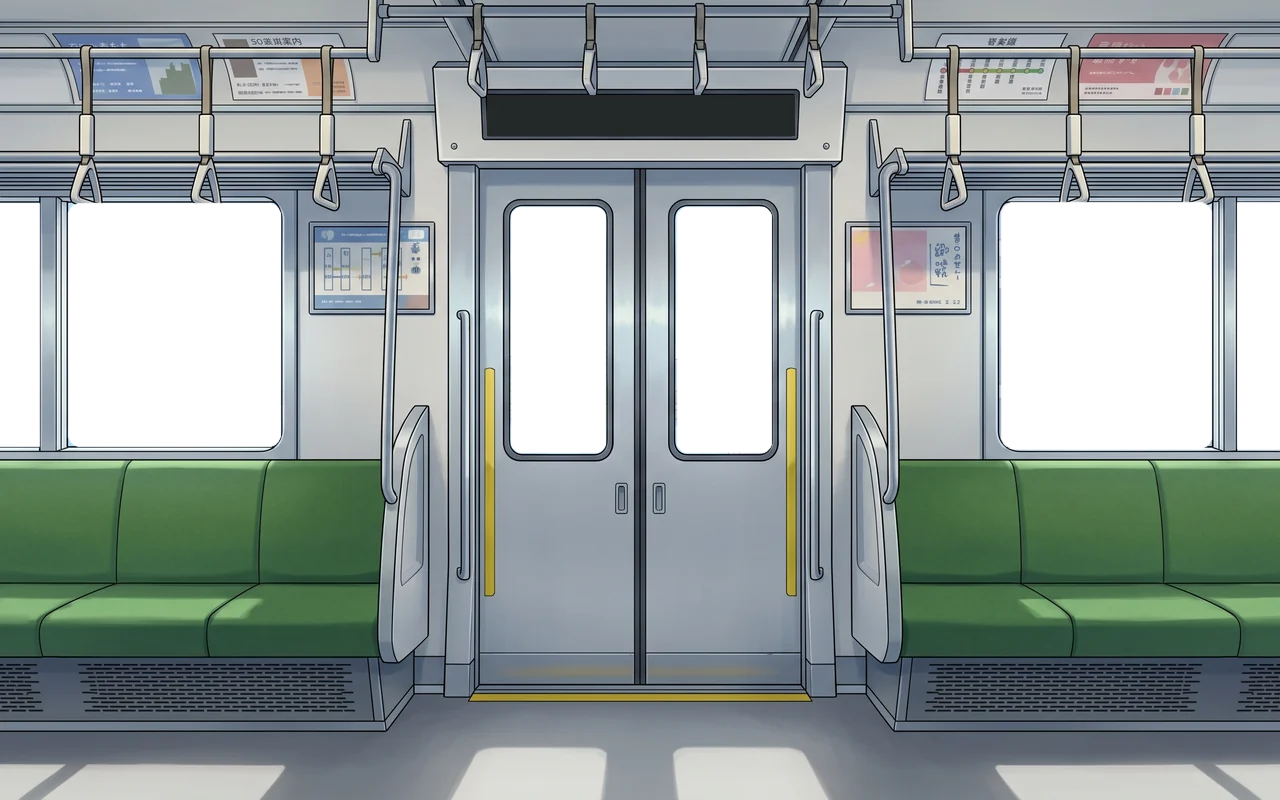
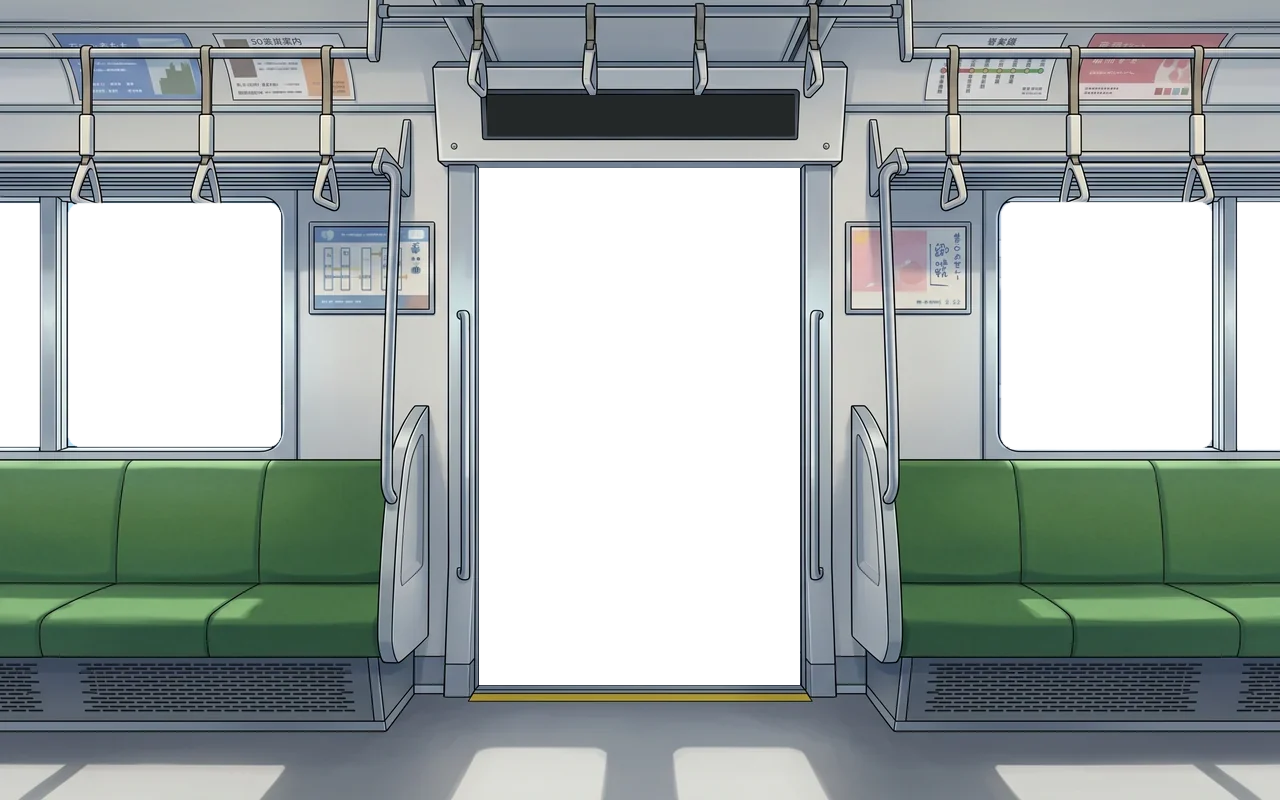
快速：車内の絵の中央ドアを開閉、通過駅への各駅停車案内を追加
- 車内の絵の中央のドアを扉の絵に切り出し、停車中に左右へ開く（開くとホームが見える）。快速では別枠のドアの画面を出さない
- ドア上の案内表示に「○○にお越しのお客様は 各駅停車にお乗り換えください（発車時刻）」を追加（始発駅は終点まで、途中駅は次の停車駅までの通過駅）
- 乗客の絵が目的ごとに足りないとき、同じ人を並べる前に近い目的の別の人を選ぶ

Claude-Session: https://claude.ai/code/session_01A2JS1sGX5LUKpYGRpXhqfW

Changed region(s): [[0.375, 0.1875, 0.625, 0.875]]

diff --git a/index.html b/index.html
@@ -314,6 +314,7 @@ canvas{display:block;touch-action:manipulation}
 .rside canvas#rideMon{display:block;width:100%;aspect-ratio:321/216}
 .rdoorrow{display:grid;grid-template-columns:130px 38px minmax(0,1fr);gap:8px;align-items:end}
 .rdoorrow canvas{display:block;width:100%;border-radius:6px}
+.rdoorrow.nodoor{grid-template-columns:38px minmax(0,1fr)}.rdoorrow.nodoor canvas{display:none}
 .rdoorrow img{width:38px;height:auto;display:block;opacity:.92;transition:filter .3s}
 .rdoorrow img.on{filter:drop-shadow(0 0 6px rgb(80 220 150 / .6))}
 .rcrowd{background:#1d2127;border:1px solid #2a2e35;border-radius:8px;padding:9px 11px}
@@ -1926,7 +1927,7 @@ const RIDE=(()=>{
     R.loading=fetch('data/ride.json').then(r=>{if(!r.ok)throw new Error('data/ride.json: HTTP '+r.status);return r.json();}).then(c=>{
       const srcs=new Set([c.platform.src,c.monitor.src,c.buttons.src]);
       Object.values(c.scenery).forEach(s=>{srcs.add(s.src);VARIANTS.forEach(v=>{if(s[v])srcs.add(s[v].src);});});
-      if(c.station){Object.values(c.station.backgrounds).forEach(b=>srcs.add(b.src));Object.values(c.station.trains).forEach(t=>{srcs.add(t.headSrc);srcs.add(t.midSrc);});}Object.values(c.interiors).forEach(s=>{srcs.add(s.src);(s.levels||[]).flat().forEach(x=>srcs.add(x));});if(c.people)['front','back'].forEach(k=>(c.people[k]||[]).forEach(x=>srcs.add(x.src)));if(c.sprites){c.sprites.heads.forEach(x=>srcs.add(x.src));c.sprites.stand.forEach(x=>srcs.add(x.src));}if(c.riders)['stand','seat'].forEach(k=>c.riders[k].forEach(x=>srcs.add(x.src)));Object.values(c.doors).forEach(d=>srcs.add(d.src));if(c.stationView)['floor','canopy','pillar'].forEach(k=>srcs.add(c.stationView[k]));Object.values(c.doors).forEach(s=>srcs.add(s.src));
+      if(c.station){Object.values(c.station.backgrounds).forEach(b=>srcs.add(b.src));Object.values(c.station.trains).forEach(t=>{srcs.add(t.headSrc);srcs.add(t.midSrc);});}Object.values(c.interiors).forEach(s=>{srcs.add(s.src);if(s.doorway)srcs.add(s.doorway.src);(s.levels||[]).flat().forEach(x=>srcs.add(x));});if(c.people)['front','back'].forEach(k=>(c.people[k]||[]).forEach(x=>srcs.add(x.src)));if(c.sprites){c.sprites.heads.forEach(x=>srcs.add(x.src));c.sprites.stand.forEach(x=>srcs.add(x.src));}if(c.riders)['stand','seat'].forEach(k=>c.riders[k].forEach(x=>srcs.add(x.src)));Object.values(c.doors).forEach(d=>srcs.add(d.src));if(c.stationView)['floor','canopy','pillar'].forEach(k=>srcs.add(c.stationView[k]));Object.values(c.doors).forEach(s=>srcs.add(s.src));
       return Promise.all([...srcs].map(s=>loadImg(s).then(im=>{R.img[s]=im;}))).then(()=>{R.cfg=c;buildStrips();});});
     R.loading.catch(()=>{R.loading=null;});
     return R.loading;}
@@ -2218,10 +2219,19 @@ const RIDE=(()=>{
   function levelSrc(n){const LV=R.it.levels,L=LV[Math.min(n,LV.length-1)];return Array.isArray(L)?L[(R.tr.num||0)%L.length]:L;}
   function drawLevels(c,dt,k,dk,blur,W,H,bob){const it=R.it;
     for(const side of ['left','right'])(it.windows[side]||[]).forEach(([x,y,w,h],wi)=>{c.save();c.beginPath();c.rect(x,y,w,h);c.clip();windowContent(c,R.tr,k,x,y,w,h,side,wi,dk,blur);c.restore();});
+    if(it.doorway)drawDoorway(c,k,dk,blur);
     if(it.door){const [x,y,w,h]=it.door,ref=R.img[levelSrc(0)];c.save();c.beginPath();c.rect(x,y,w,h);c.clip();c.drawImage(ref,x-w*0.6,y-h*0.35,w*2.2,h*1.6);c.fillStyle='rgba(30,24,18,.35)';c.fillRect(x,y,w,h);c.restore();}   // 貫通扉の窓の向こう＝となりの車両
     const tgt=level(k.load/R.tr.cap);if(R.lvShow==null)R.lvShow=tgt;R.lvShow+=(tgt-R.lvShow)*Math.min(1,dt*2.5);if(Math.abs(tgt-R.lvShow)<0.003)R.lvShow=tgt;
     const a=Math.max(1,Math.min(5,Math.floor(R.lvShow))),f=R.lvShow-a;
     const s0=levelSrc(a-1),s1=levelSrc(a);c.drawImage(R.img[s0],0,-1,W,H+2);if(f>0.01&&a<5&&s1!==s0){c.globalAlpha=f;c.drawImage(R.img[s1],0,-1,W,H+2);c.globalAlpha=1;}}
+  // 車内の絵の中のドア：開口部（車内の絵では透明）の向こうに外を描き、その上に扉を描く。扉は開くと左右の壁の中へ引き込まれる（このあと重ねる車内の絵に隠れる）
+  function drawDoorway(c,k,dk,blur){const D=R.it.doorway,[x0,y0,x1,y1]=D.rect,mid=D.seam,o=k.door,im=R.img[D.src];
+    c.save();c.beginPath();c.rect(x0,y0,x1-x0,y1-y0);c.clip();
+    R.ov={eye:D.eyeY,eyeY:D.eyeY,pxm:D.pxm,glass:D.glassY};try{windowContent(c,R.tr,k,x0,y0,x1-x0,y1-y0,'left',D.wi||0,dk,blur);}finally{R.ov=null;}
+    const sh=Math.max(mid-x0,x1-mid)*o*0.97,lw=mid-x0;
+    c.drawImage(im,0,0,lw,im.height,x0-sh,y0,lw,y1-y0);c.drawImage(im,lw,0,im.width-lw,im.height,mid+sh,y0,x1-mid,y1-y0);
+    if(o>0.001){c.fillStyle='rgba(0,0,0,.3)';c.fillRect(mid-sh-2,y0,2,y1-y0);c.fillRect(mid+sh,y0,2,y1-y0);}
+    c.restore();}
   /* --- 乗客の絵（riders）：席・立ち位置に、いま乗っている人の目的（通勤通学・ビジネス・観光・私用）の割合で服装を選んで置く。
      イベントの開催中で会場の駅を通る列車は、観光・私用の一部をイベントの服装（浴衣・フェス・鉄道フェス）にする。
      同じ人が同じ車内に2人出ないように、使っていない絵から選ぶ（足りないときだけ左右反転で再利用） --- */
@@ -2231,7 +2241,10 @@ const RIDE=(()=>{
     const ev=riderEvent(tr),w=[mx[0],mx[1],mx[2],mx[3],0];if(ev){w[4]=w[2]*0.7+w[3]*0.2;w[2]*=0.3;w[3]*=0.8;}
     const sum=w.reduce((a,b)=>a+b,0),rnd=R.prnd;let r=rnd()*(sum||1),cat=0;if(sum>0)for(cat=0;cat<4&&r>=w[cat];cat++)r-=w[cat];
     const list=RD[o.kind==='seat'?'seat':'stand'];let pool=list.filter(x=>x.cat===cat&&(cat!==4||x.ev===ev));if(!pool.length)pool=list.filter(x=>x.cat===2);
-    const used=new Set(R.slots.filter(q=>q.rd).map(q=>q.rd.src)),free=pool.filter(x=>!used.has(x.src)),reuse=!free.length;
+    const used=new Set(R.slots.filter(q=>q.rd).map(q=>q.rd.src));let free=pool.filter(x=>!used.has(x.src));
+    // その目的の絵を使い切ったら、近い目的のまだ使っていない絵から選ぶ（同じ人を並べない）。全部使い切ったときだけ再利用
+    for(const c2 of ({0:[3,1,2],1:[0,3,2],2:[3,0,1],3:[0,2,1],4:[2,3,0]})[cat]){if(free.length)break;free=list.filter(x=>x.cat===c2&&!used.has(x.src));}
+    const reuse=!free.length;
     const sp=(reuse?pool:free)[Math.floor(rnd()*(reuse?pool.length:free.length))];
     return {...sp,flip:!sp.nf&&(reuse||o.flip),k:0.97+rnd()*0.06};}
   function drawPax(c,dt,t){const it=R.it,P=it.pax,RD=R.cfg.riders;if(!RD)return;
@@ -2257,14 +2270,19 @@ const RIDE=(()=>{
     return best;}
   // 停車中に同じ方向の列車が通過していく（通過待ち）
   function passWait(tr,i){const s=tr.seq[i];for(const o of D.trips){if(o===tr||o.down!==tr.down)continue;const q=o.seq.indexOf(s);if(q<=0||q===o.seq.length-1||o.stop[q])continue;if(o.arr[q]>=T&&o.arr[q]<=tr.dep[i])return o;}return null;}
+  // この駅から先で通過する駅（all＝終点まで全部、そうでなければ次の停車駅まで）と、そこへ行く各駅停車
+  function passAhead(tr,i,all){const n=tr.seq.length,out=[];for(let a=i+1;a<n-1;a++){if(tr.stop[a]){if(!all)break;continue;}out.push(tr.seq[a]);}
+    if(!out.length)return null;const s=tr.seq[i],cn=conn(s,T-1,o=>o.type==='L'&&o.down===tr.down&&o.seq.includes(out[0]));return {names:out.map(q=>ST[q].name),cn};}
   function ledSegs(k){const tr=R.tr,n=tr.seq.length,{lab,j}=monitorInfo(k),s=tr.seq[j],nm=ST[s].name,dest=ST[tr.seq.at(-1)].name,ty=TYPES[tr.type].name;
     const A='#ffad42',G='#72e596',Wt='#eef1f2',msgs=[];const M=(...a)=>msgs.push(a.map(x=>Array.isArray(x)?x:[x,A]));
     const side=R.cfg.platform.side==='right'?'右':'左';
+    const pass=(i,all)=>{const p=passAhead(tr,i,all);if(p)M(`${p.names.join('・')}にお越しのお客様は 各駅停車にお乗り換えください`+(p.cn?`（${fmt(p.cn.t)}発 普通 ${ST[p.cn.o.seq.at(-1)].name}行）`:''));};
     const xfer=()=>transferDirs(tr,j).forEach(({end,cn})=>M(`${ST[end].name}方面はお乗り換えです`+(cn?`（${fmt(cn.t)}発 ${TYPES[cn.o.type].name} ${ST[cn.o.seq.at(-1)].name}行）`:'')));
     if(lab==='終点'){M([nm,G],' 終点です');M('ご乗車ありがとうございました');M('お忘れ物のないようご注意ください');M([`${roma(s)}. This is the last stop.`,Wt]);return msgs;}
-    if(!k.moving&&k.i===0){M('この電車は ',[`${ty} ${dest}`,G],' 行きです');M('停車駅は '+tr.seq.filter((q,ix)=>ix>0&&(tr.stop[ix]||ix===n-1)).map(q=>ST[q].name).join('・')+' です');M(`${fmt(tr.dep[0])} 発車`);M([`This is the ${TYPE_EN[tr.type]} train bound for ${roma(tr.seq.at(-1))}.`,Wt]);return msgs;}
+    if(!k.moving&&k.i===0){M('この電車は ',[`${ty} ${dest}`,G],' 行きです');M('停車駅は '+tr.seq.filter((q,ix)=>ix>0&&(tr.stop[ix]||ix===n-1)).map(q=>ST[q].name).join('・')+' です');pass(0,true);M(`${fmt(tr.dep[0])} 発車`);M([`This is the ${TYPE_EN[tr.type]} train bound for ${roma(tr.seq.at(-1))}.`,Wt]);return msgs;}
     if(lab==='ただいま'){M([nm,G],' です');M('この電車は ',[`${ty} ${dest}`,G],' 行きです');xfer();
       const fc=fasterConn(tr,j);if(fc)M(`${ST[tr.seq[fc.X]].name}へお急ぎの方は 向かいの`,[TYPES[fc.o.type].name,G],`（${fmt(fc.o.dep[fc.q])}発）にお乗り換えください`+(TYPES[fc.o.type].sur?'　特急券が必要です':''));
+      pass(j,false);
       const pw=passWait(tr,j);if(pw)M(`${TYPES[pw.type].name}の通過待ちのため しばらく停車します`);
       M(`${fmt(tr.dep[j])} 発車`);return msgs;}
     M(lab==='まもなく'?'まもなく ':'次は ',...(j===n-1?['終点 ']:[]),[nm,G],' です');M(`お出口は${side}側です`);xfer();M(`${nm} ${fmt(tr.arr[j])} 着`);
@@ -2292,7 +2310,7 @@ const RIDE=(()=>{
     c.restore();}
 
   /* --- 描画：ドア（開くと後ろにホームが見える） --- */
-  function drawDoor(k){const D0=R.cfg.doors[R.tr.type]||R.cfg.doors.L;if(D0.glass)return drawDoorGlass(k,D0);const im=R.img[D0.src],W=im.width,H=im.height;const c=fit(el('rideDoor'),W,H);if(!c)return;
+  function drawDoor(k){if(R.it&&R.it.doorway)return;const D0=R.cfg.doors[R.tr.type]||R.cfg.doors.L;if(D0.glass)return drawDoorGlass(k,D0);const im=R.img[D0.src],W=im.width,H=im.height;const c=fit(el('rideDoor'),W,H);if(!c)return;
     const key=k.door.toFixed(3)+'|'+Math.round(darkness(T)*50);if(R.keys.door===key&&!R.dirty)return;R.keys.door=key;
     c.clearRect(0,0,W,H);c.drawImage(im,0,0);
     const [x0,y0,x1,y1]=D0.leaves,mid=(x0+x1)/2,o=k.door;
@@ -2597,7 +2615,7 @@ const st=personStyle(o,s,T),pal=PAL[st],col=pal[Math.floor(o.r2*pal.length)],b=P
   function startRide(tr){R.mode='ride';R.tr=tr;sel={kind:'trip',trip:tr};el('rideSide').hidden=false;el('platSide').hidden=true;el('rideCv').style.aspectRatio='';
     el('rideTitle').innerHTML=`${TYPES[tr.type].name} ${tr.num}<small>${ST[tr.seq.at(-1)].name}行・${tr.cars}両</small>`;
     R.it=Object.values(R.cfg.interiors).find(x=>x.types.includes(tr.type))||R.cfg.interiors.local;
-    el('rideBtns').src=R.cfg.buttons.src;makeSlots(tr);R.prnd=seeded((tr.num||1)*7+3);R.led=null;R.ledKey=null;R.k=kin(tr,T);const tg=targets(R.k.load/tr.cap);R.slots.forEach((o,ix)=>o.a=tg[ix]);
+    el('rideBtns').src=R.cfg.buttons.src;el('rideDoor').parentElement.classList.toggle('nodoor',!!R.it.doorway);makeSlots(tr);R.prnd=seeded((tr.num||1)*7+3);R.led=null;R.ledKey=null;R.k=kin(tr,T);const tg=targets(R.k.load/tr.cap);R.slots.forEach((o,ix)=>o.a=tg[ix]);
     R.lastV=R.k.v;R.lastT=T;R.tilt=0;R.keys={};R.dirty=true;R.lvShow=null;}
   function exit(why){if(!R.on)return;R.on=false;el('ride').hidden=true;document.documentElement.style.overflow='';
     const tr=R.tr,k=R.k,mode=R.mode;R.tr=null;R.mode='ride';setSpeed(R.prevSpeed);  // 元の速さ（×30〜×600）に戻す。時刻は乗車を終えた時刻のまま
